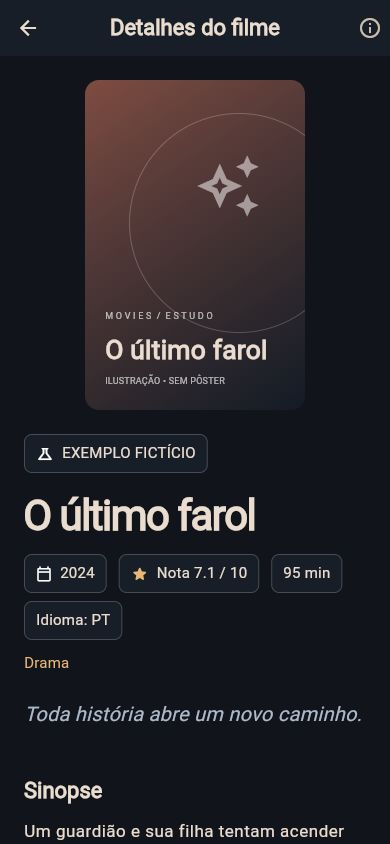
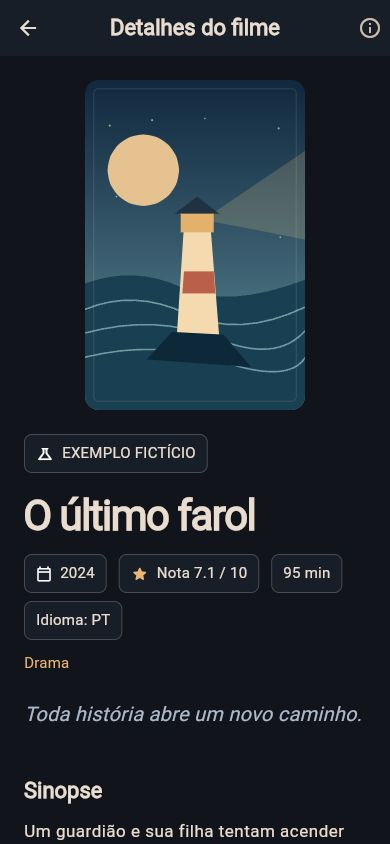
Refresh lesson and screenshots for bundled movie posters
Explain asset setup and demo-only parsing, align the 25-test count and Dart version, and record verified Medium publication with two refreshed captures and five final exercises.

Changed region(s): [[0.2154, 0.0924, 0.8, 0.4929]]

diff --git a/docs/medium-tutorial.pt-BR.html b/docs/medium-tutorial.pt-BR.html
@@ -14,13 +14,13 @@ flutter --version
 flutter pub get --enforce-lockfile
 flutter run -d chrome</pre>
 
-<p>O modo padrão é uma demonstração local: doze filmes, notas e ilustrações fictícios em <code>assets/fixtures/movies.json</code>. Não há consulta autenticada ao TMDB nessa experiência. Assim, a turma pode estudar navegação, busca e paginação sem criar conta, expor um token ou depender da disponibilidade da API.</p>
+<p>O modo padrão é uma demonstração local: doze filmes e notas fictícios em <code>assets/fixtures/movies.json</code>, cada um com seu pôster SVG original em <code>assets/posters/</code>. As imagens fazem parte do aplicativo e não precisam de chave nem de internet. Não há consulta autenticada ao TMDB nessa experiência. Assim, a turma pode estudar navegação, busca e paginação sem criar conta, expor um token ou depender da disponibilidade da API.</p>
 
 <p><strong>Experimente:</strong> busque “farol”, abra O último farol e confira os detalhes. Volte, limpe o campo, altere a densidade dos cartões e toque em Carregar mais filmes. Pesquise “xyz” para observar a mensagem de lista vazia. Depois abra Sobre e créditos e confira a identificação dos dados de exemplo.</p>
 
-<figure><img src="screenshots/catalog-desktop.jpg" alt="Captura real do catálogo Web Movies com filmes fictícios, busca e grade responsiva."></figure>
+<figure><img src="screenshots/catalog-desktop.jpg" alt="Captura real do catálogo Web Movies com pôsteres SVG locais: órbita espacial, farol, jardim e montanhas nos cards dos filmes fictícios. Busca, aviso de modo de exemplo e notas continuam visíveis. As imagens estão incluídas no aplicativo e não dependem do TMDB."></figure>
 
-<p>O catálogo acima é uma captura real do aplicativo compilado para Web. Os filmes são exemplos locais, e a ilustração usada quando não há pôster é identificada como tal.</p>
+<p>O catálogo acima é uma captura real do aplicativo compilado para Web. Os filmes e seus pôsteres são exemplos locais. Cada cartão agora exibe uma ilustração vetorial própria, também usada nos detalhes; não são pôsteres de filmes reais do TMDB.</p>
 
 <h2>2. Entenda as versões e o papel de cada pacote</h2>
 
@@ -41,8 +41,16 @@ dev_dependencies:
     sdk: flutter
   flutter_lints: ^6.0.0</pre>
 
-<p><strong>dio 5.11.1</strong> faz as requisições HTTPS e permite injetar um adaptador nos testes. <strong>flutter_svg 2.4.0</strong> desenha o logotipo oficial usado nos créditos. <strong>cupertino_icons 2.0.0</strong> fornece os ícones dos controles adaptativos. <strong>material_ui 1.11.1</strong> contém os componentes Material atuais. <strong>flutter_lints 6.0.0</strong> orienta a análise estática; <strong>flutter_test</strong> acompanha o SDK Flutter 3.50.0.</p>
+<p><strong>dio 5.11.1</strong> faz as requisições HTTPS e permite injetar um adaptador nos testes. <strong>flutter_svg 2.4.0</strong> desenha os pôsteres SVG locais e o logotipo oficial usado nos créditos. <strong>cupertino_icons 2.0.0</strong> fornece os ícones dos controles adaptativos. <strong>material_ui 1.11.1</strong> contém os componentes Material atuais. <strong>flutter_lints 6.0.0</strong> orienta a análise estática; <strong>flutter_test</strong> acompanha o SDK Flutter 3.50.0.</p>
 
+<p>Para incluir os arquivos no aplicativo, este trecho fica no <code>pubspec.yaml</code>, no nível de <code>dependencies</code>, e não dentro dele. Declare o diretório e execute novamente <code>flutter pub get --enforce-lockfile</code>:</p>
+<pre>flutter:
+  uses-material-design: true
+  assets:
+    - assets/fixtures/movies.json
+    - assets/posters/
+    - assets/tmdb-logo.svg</pre>
+<p>Por exemplo, O último farol usa <code>"poster_asset": "assets/posters/o-ultimo-farol.svg"</code> na fixture. Os SVGs não referenciam recursos externos. Na Web, isso dispensa internet para os pôsteres quando o build está disponível localmente; não adiciona cache de service worker para uma primeira visita a um site remoto sem conexão.</p>
 <p>No Flutter 3.50, a biblioteca de design Material foi separada do núcleo. Os widgets deste projeto importam:</p>
 
 <pre>import &#x27;package:material_ui/material_ui.dart&#x27;;</pre>
@@ -144,11 +152,11 @@ void main() {
 
 <p>A tela de catálogo usa uma grade responsiva e um botão de paginação explícito. TextField chama o início da busca; ListenableBuilder observa o controlador; os cartões navegam para DetailScreen passando o ID. Os detalhes têm sua própria consulta e uma nova tentativa independente quando ela falha.</p>
 
-<figure><img src="screenshots/detail-mobile.jpg" alt="Detalhes de O último farol no navegador em 390 por 844 pixels; filme fictício com ano, nota, duração, idioma e gênero."></figure>
+<figure><img src="screenshots/detail-mobile.jpg" alt="Captura real da Web em 390 por 844 pixels: detalhes de O último farol com seu pôster SVG local, um farol iluminando o mar sob a lua. O filme é identificado como exemplo fictício; ano 2024, nota 7,1, duração de 95 minutos, idioma português e gênero drama."></figure>
 
 <p>Captura real dos detalhes na Web em largura de celular. O rótulo EXEMPLO FICTÍCIO identifica a origem dos dados; ano, nota, duração, idioma e gênero são metadados de leitura, não caixas de seleção.</p>
 
-<p>Antes de pensar em efeitos visuais, confira quatro situações: a consulta ainda não terminou; terminou sem resultados; falhou; ou retornou dados. O indicador de carregamento tem descrição semântica. O vazio sugere outra busca. O erro oferece Tentar novamente. Pôster ausente ou com falha usa uma ilustração local identificada, sem ocultar o título do filme.</p>
+<p>Antes de pensar em efeitos visuais, confira quatro situações: a consulta ainda não terminou; terminou sem resultados; falhou; ou retornou dados. O indicador de carregamento tem descrição semântica. O vazio sugere outra busca. O erro oferece Tentar novamente. No modo de exemplo, <code>Movie.fromDemoJson</code> valida <code>poster_asset</code> no formato <code>assets/posters/nome-do-filme.svg</code>; <code>Movie.fromJson</code>, usado pelo TMDB, ignora esse campo local. O componente compartilhado <code>Poster</code> escolhe <code>SvgPicture.asset</code> para os exemplos e <code>Image.network</code> para os pôsteres reais. Se uma imagem estiver ausente ou falhar, a arte de reserva identificada continua preservando o título.</p>
 
 <p>Na revisão da interface, os testes reproduziram um overflow com texto a 200%; o cabeçalho e a altura da grade foram ajustados. A inspeção real do navegador também mostrou metadados sendo anunciados como controles selecionáveis; eles foram substituídos por marcadores de texto. Acessibilidade envolve nomes, papéis e tamanho de texto, além de contraste e cor.</p>
 
@@ -181,7 +189,7 @@ dart run example/parse_movie.dart
 flutter build web --no-pub --release --no-web-resources-cdn
 python3 -m http.server 8784 --directory build/web --bind 127.0.0.1</pre>
 
-<p>Abra <code>http://127.0.0.1:8784</code>. A suíte tem 23 testes de parsing, serviço, estado e widgets: fixtures, parâmetros de autenticação e busca, HTTP 401/403/404/429/500, timeout, conexão, paginação, deduplicação, navegação, vazio, retry e texto ampliado. O exemplo do artigo também foi executado. Cobertura gerada não significa cobertura total; não anunciamos um percentual que não foi medido.</p>
+<p>Abra <code>http://127.0.0.1:8784</code>. A suíte tem 25 testes de parsing, serviço, estado e widgets: fixtures, parâmetros de autenticação e busca, HTTP 401/403/404/429/500, timeout, conexão, paginação, deduplicação, navegação, vazio, retry, texto ampliado e renderização dos doze pôsteres empacotados sem imagens de rede. O exemplo do artigo também foi executado. Cobertura gerada não significa cobertura total; não anunciamos um percentual que não foi medido.</p>
 
 <p>O CI repete instalação com lockfile, formatação, análise, testes e build Web com Flutter 3.50.0. Compilar um APK ou um aplicativo para simulador não equivale a testar em um telefone. O <a href="https://github.com/kleberandrade/movies-flutter/blob/main/docs/validation.md">registro de validação</a> separa resultados atuais, resultados históricos e verificações não realizadas.</p>
 

diff --git a/README.md b/README.md
@@ -9,11 +9,11 @@
 
 A Flutter classroom movie explorer by Kleber de Oliveira Andrade. Browse a responsive catalog, search titles, load more results and open a movie's synopsis, year, score, runtime, genres and original language. The interface is in Portuguese.
 
-The default **sample mode** uses twelve original fictional movies, ratings and local illustrations. It works without a key or TMDB requests. These are teaching fixtures, not real movies or API results.
+The default **sample mode** uses twelve original fictional movies, ratings and bundled SVG posters. It works without a key or TMDB requests. Each movie has its own poster in `assets/posters/`, rendered from the asset bundle in cards and details. These are teaching fixtures, not real movies or API results.
 
 ## Requirements and setup
 
-Tested toolchain: **Flutter 3.50.0 / Dart 3.14.5** (`.fvmrc`). Install that Flutter release; FVM is optional. Chrome is required for Web development. Android needs an SDK/JDK and accepted licenses; iOS needs macOS and Xcode. Do not accept terms on behalf of another person.
+Tested toolchain: **Flutter 3.50.0 / Dart 3.14.0** (`.fvmrc`). Install that Flutter release; FVM is optional. Chrome is required for Web development. Android needs an SDK/JDK and accepted licenses; iOS needs macOS and Xcode. Do not accept terms on behalf of another person.
 
 ```sh
 git clone https://github.com/kleberandrade/movies-flutter.git
@@ -72,7 +72,7 @@ The [Portuguese tutorial source](docs/medium-tutorial.pt-BR.html) contains curre
 - `lib/data`: TMDB transport, safe failures, repository contract and sample repository.
 - `lib/state`: catalog search/pagination ownership and stale-response protection.
 - `lib/ui`: catalog, details, reusable poster/error/credits components.
-- `assets/fixtures`: fictional sample catalog; `test`: deterministic behavior tests.
+- `assets/fixtures`: fictional sample catalog; `assets/posters`: twelve original local vector posters; `test`: deterministic behavior tests.
 - `android`, `ios`, `web`: Flutter platform scaffolds.
 
 The old Dart 2 constructors and controllers have been replaced; this is an application, not a published library. Migration rationale and glossary are in [architecture](docs/architecture.md). Implementation decisions and tool limitations are in the [work log](docs/work-log.md).

diff --git a/docs/work-log.md b/docs/work-log.md
@@ -27,3 +27,11 @@ Date: 2026-11-17. Scope: `kleberandrade/movies-flutter` only.
 - Generated a new editorial cover, removed an unintended logo in a targeted edit, and saved the final image and prompts in docs/media. Captured the actual updated Web catalog and details at desktop/mobile sizes.
 - Replaced the Medium body with a continuous Portuguese lesson, current package versions, code explanations, source references and exactly five final exercises. Preserved original resources in the linked classroom archive. Inserted the new cover and two real screenshots, with descriptions distinguishing illustration from actual app capture. Browser extension upload failed; used the native file picker instead, without changing browser permissions.
 - Published the full revision and opened the public story again. Verified current package text, three images loading with alternative descriptions, the new cover as the sharing image, no insertion markers and exactly five final exercise items. Saved publication proof outside Git because it includes browser-account UI.
+
+## Follow-up: local posters and refreshed captures
+
+- Read the shared project modernization standard now present under the Projects workspace. Confirmed sample JSON had no poster references; the UI correctly displayed its labeled fallback.
+- Added a widget regression before implementation and observed the expected failure: no SvgPicture for the first sample movie. Created twelve distinct original vector illustrations and registered their local directory in pubspec.yaml.
+- Added fixture-only poster parsing and validated its local namespace. Live TMDB parsing ignores this field; both catalog and details reuse the same Poster component, which preserves the existing image-error fallback.
+- All 25 tests, locked dependency resolution, analyzer and parsing example passed. Release Web and Android ARM64 debug builds passed; verified all twelve exact asset contents in both outputs. No packages or SDK changes were needed.
+- Inspected actual desktop/mobile rendering and refreshed four screenshots. Updated the lesson's explanation, asset declaration, sample field, test count and two uploaded screenshots, preserving its cover, identity and five final exercises. Publication verification is recorded in medium-update.pt-BR.md.

diff --git a/docs/medium-update.pt-BR.md b/docs/medium-update.pt-BR.md
@@ -4,6 +4,17 @@ Artigo próprio: [Criando um aplicativo em Flutter para consumir uma API de Film
 
 Em 17/11/2026, a revisão completa substituiu o corpo antigo por uma aula contínua em português. O título, a autoria, a URL e a identidade `2b5a9982bfcd` foram preservados. Não foram enviados e-mails, newsletters nem mensagens a seguidores. A publicação anterior, que acrescentava uma atualização antes das notas históricas, foi substituída por esta edição integral.
 
+## Atualização posterior: pôsteres locais
+
+A edição seguinte, também em 17/11/2026, publicou os pôsteres SVG originais incluídos no aplicativo para todos os doze filmes fictícios. O texto explica `poster_asset`, a validação exclusiva de `Movie.fromDemoJson`, o uso de `SvgPicture.asset`, a declaração de `flutter.assets` e a diferença entre recursos locais e cache offline do navegador. O bloco novo foi configurado como YAML e conferido na página pública, preservando indentação e caminhos. A suíte atual tem **25 testes**.
+
+As quatro capturas do repositório foram refeitas a partir do build Web atual. Duas foram enviadas pelo seletor de arquivos do navegador integrado e publicadas no mesmo artigo, com novas descrições alternativas:
+
+- Catálogo: `1*8-LE89tP7SQN4DF8aTCB2Q.jpeg`.
+- Detalhes em **390 × 844**: `1*esqQfJBDDj2Zr0pjIa2gHg.jpeg`.
+
+Depois de **Save and publish**, a página pública foi recarregada. Foram confirmados os dois novos endereços de imagem com conteúdo carregado, o texto atualizado, as nove etapas, o bloco YAML e exatamente cinco itens na última seção didática. A capa editorial continua sendo `1*1l6GLys1GNrfGdNZ74yRxg.png`, inclusive em `og:image`. A prova visual desta publicação foi salva fora do Git em `medium-local-posters.jpg`. As seções abaixo registram a revisão integral anterior.
+
 ## Texto, código e versões
 
 A aula tem objetivos de aprendizagem, pré-requisitos e nove etapas: experimentar o aplicativo, compreender dependências, separar responsabilidades, validar JSON, injetar repositórios, controlar concorrência/paginação, apresentar estados acessíveis, configurar TMDB e executar verificações.

diff --git a/docs/validation.md b/docs/validation.md
@@ -1,5 +1,13 @@
 # Verified validation
 
+## Follow-up: bundled sample posters
+
+The 12 fictional movies now have distinct original SVG posters bundled in `assets/posters/` (16,823 bytes total). A new widget regression first failed because no poster was rendered, then passed for every bundled image without a network `Image`. Fixture tests also verify unique existing poster files and matching catalog/detail paths. Boundary tests reject unsafe local paths; TMDB parsing ignores the fixture-only `poster_asset` field.
+
+Locked resolution, formatting, analyzer, **25 behavioral tests**, the executable parsing example, Web release and Android ARM64 debug builds passed. All 12 SVG contents were compared byte-for-byte with their entries in the Web build and Android APK. No dependency or toolchain changes were necessary. The README's incorrect Dart patch number was aligned with the actual SDK (3.14.0).
+
+Actual compiled Web cards and details were inspected at desktop and **390 × 844**, with no warning/error console entries in the mobile session. All four repository screenshots were refreshed. The demo uses no remote poster source; tests run with Flutter's test HTTP restrictions. A fully disconnected browser reload/service-worker cache and native-device execution were not tested. iOS was not rebuilt for this asset follow-up; its successful build below predates these poster changes.
+
 ## Follow-up: current dependencies and complete tutorial
 
 The current project is verified with **Flutter 3.50.0 / Dart 3.14.0** in a project-specific SDK cache. All direct hosted packages were upgraded to current stable releases; three upstream transitive limits are documented in [dependencies.md](dependencies.md). The old results below remain historical evidence for the initial migration.

diff --git a/docs/media/README.md b/docs/media/README.md
@@ -9,3 +9,7 @@ Use case: illustration-story. Asset type: editorial cover for a Portuguese progr
 ## Final targeted edit prompt
 
 Remove only the blue Flutter emblem at the top center, replacing it with matching empty midnight navy background. Keep the title, subtitle, composition, typography, all other illustration objects, color palette, dimensions and lighting unchanged. The result must contain no company logos. Preserve text verbatim: Filmes com Flutter / Da API à interface, com testes.
+
+## Bundled fictional posters
+
+The twelve images in `../../assets/posters/` are original SVG geometry authored directly for this project, not bitmap image-generation output. Their mapping, local-only resources and license are documented in that directory. The four UI screenshots were refreshed after adding these posters; Medium now uses the new catalog and mobile-detail captures. The AI-generated editorial cover above is unchanged.
